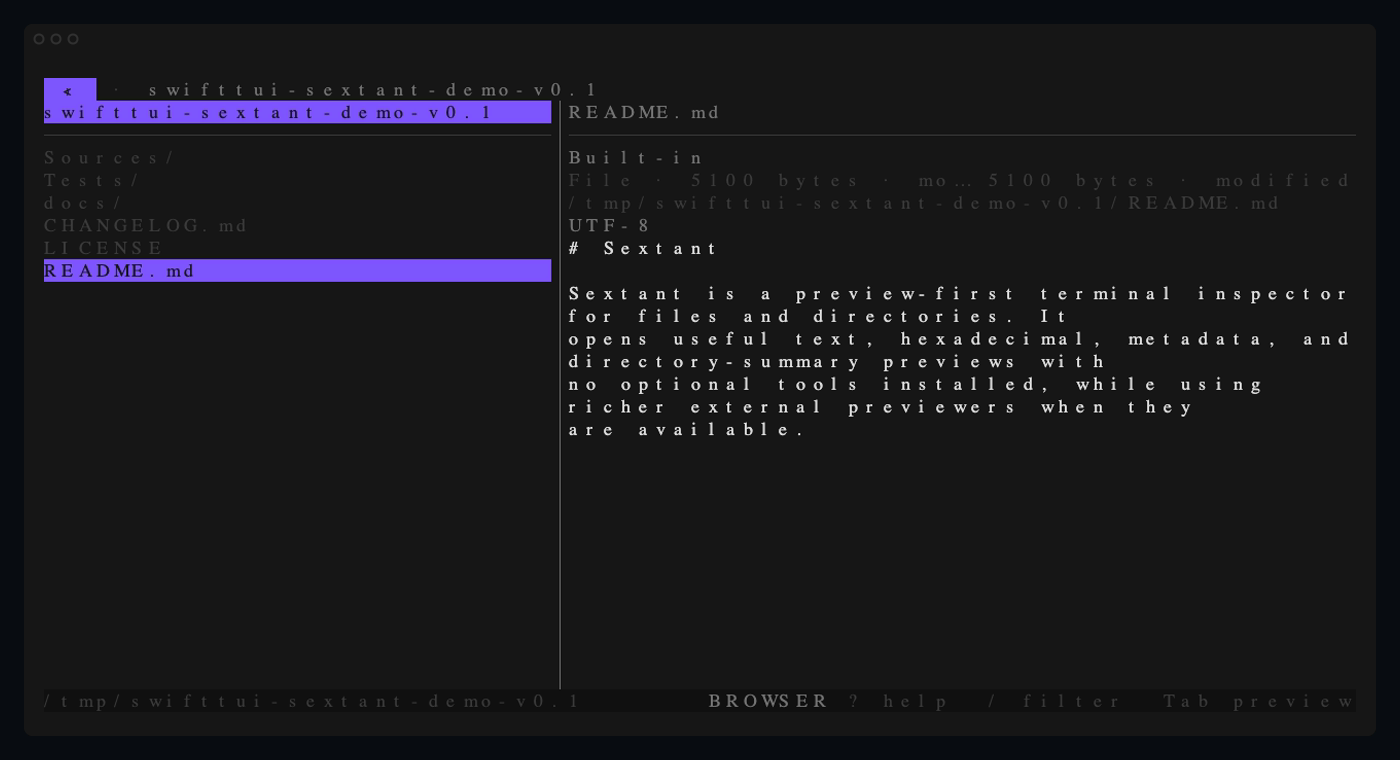
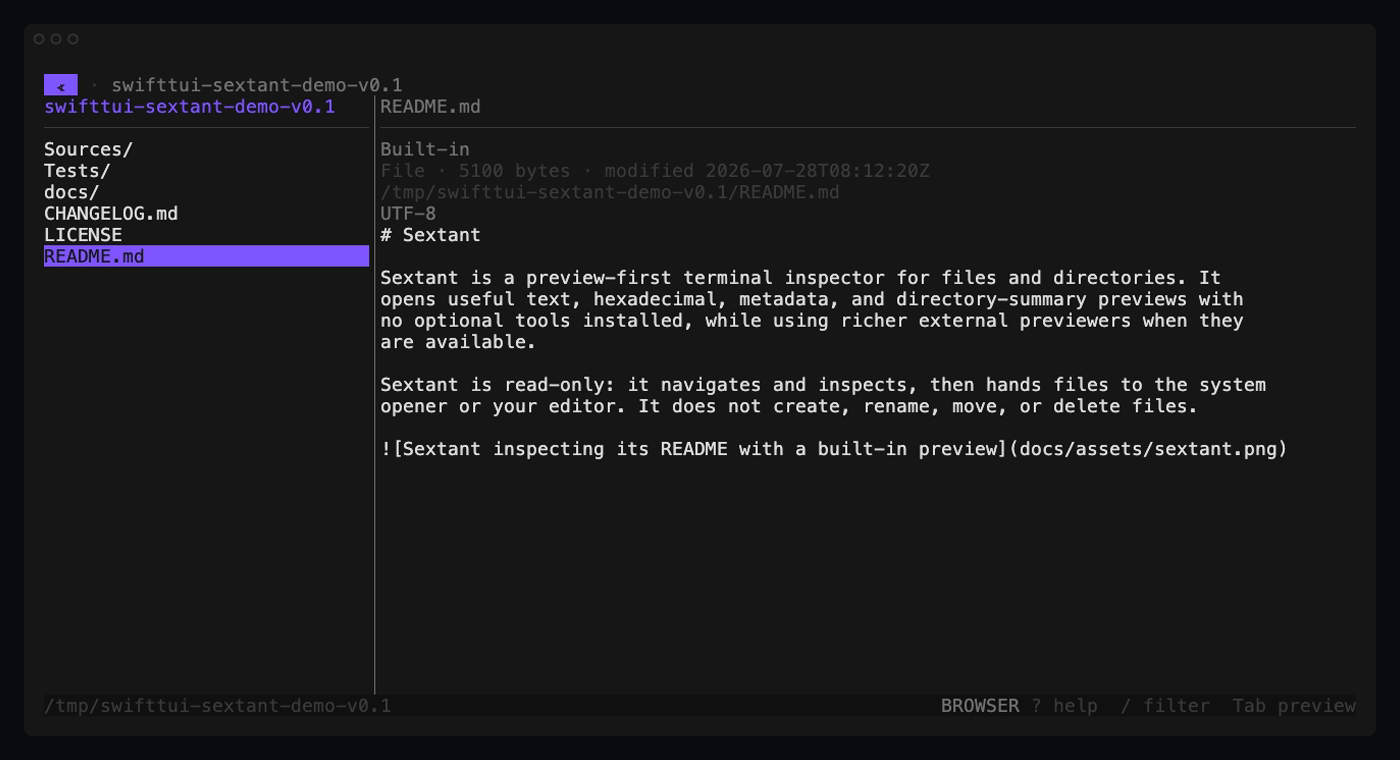
fix(sextant): clip the squeezed browser region; re-record the demo assets
Two defects, both visible in the shipped demo art.

**Column content painted over the status bar.** The help panel is an inline
sibling in the root `VStack`, so opening it squeezes the browser/preview
region to a couple of rows — and the column content, being taller than the
rows it is handed, drew straight over the status bar. In a real terminal that
read as `/tmp/…/demo-v0.1` immediately followed by the tail of the preview's
`File · 5100 bytes · modified …` on the same row. It was previously assumed
to be stale cells surviving a narrowing; it is not. The three fragments are
consecutive preview lines, which is overflow, not leftovers. Forcing
`SWIFTTUI_RASTER_VERIFY_INCREMENTAL=1` reproduces it identically, ruling out
the incremental-damage path. `.clipped()` on the region fixes it, and the new
test is neuter-proofed: without the clip the status row loses `/fixture` and
gains `(loading)`.

**`Set FontFamily "SF Mono"` never resolved.** vhs renders through xterm.js in
headless Chrome, which matches that name against Chrome's font list — and
macOS ships SF Mono inside Terminal.app/Xcode rather than a directory Chrome
enumerates. It does not error; it silently falls back to a proportional serif,
which xterm.js then measures for its cell advance. Every recording before this
one shipped with letter-spaced glyphs ("S e x t a n t") and, because the
fallback yielded so few columns, a help panel that covered the rows where the
overflow above was visible. Switched to Menlo.
[…]

diff --git a/sextant/Tests/SextantTests/ColumnBrowserRenderingTests.swift b/sextant/Tests/SextantTests/ColumnBrowserRenderingTests.swift
@@ -195,4 +195,43 @@ struct ColumnBrowserRenderingTests {
     #expect(rendered.contains("RECENTS"))
     #expect(rendered.contains("/fixture/recent"))
   }
+
+  /// An open overlay squeezes the browser/preview region to a couple of rows,
+  /// and the column content is taller than the rows it is handed. Without a
+  /// clip the surplus lines paint straight over the status bar: the shipped
+  /// 0.3.8 build rendered `/tmp/…/demo-v0.1` immediately followed by the tail
+  /// of the preview's `File · 5100 bytes · modified …` on the status row.
+  ///
+  /// The status bar is the last row, so its right-hand mode word is the probe:
+  /// nothing from the column region may share that row.
+  @Test("an open overlay never lets column content paint over the status bar")
+  func overlaySqueezeDoesNotOverflowStatusBar() {
+    let root = URL(fileURLWithPath: "/fixture")
+    let rootID = DirectoryID(identity: .path(root.path))
+    let model = BrowserModel(
+      root: root,
+      rootID: rootID,
+      policy: DirectoryPolicy(),
+      dependencies: BrowserModelDependencies(
+        loadDirectory: { _ in .failure(.cancelled) }
+      )
+    )
+    model.send(.showHelp)
+
+    // Deliberately short: the help panel alone is taller than this, which is
+    // exactly the squeeze that produced the overflow.
+    let artifacts = DefaultRenderer().render(
+      ColumnBrowser(model: model),
+      context: .init(identity: Identity(components: ["Root"])),
+      proposal: .init(width: 100, height: 12)
+    )
+    let lines = artifacts.rasterSurface.lines
+    let statusRow = try? #require(lines.last)
+
+    // The status row carries the path on the left and the mode on the right.
+    // Any column content that escaped its region lands between them.
+    #expect(statusRow?.contains("/fixture") == true)
+    #expect(statusRow?.contains("Preview") == false)
+    #expect(statusRow?.contains("(loading)") == false)
+  }
 }

diff --git a/sextant/Sources/Sextant/ColumnBrowser.swift b/sextant/Sources/Sextant/ColumnBrowser.swift
@@ -40,6 +40,12 @@ struct ColumnBrowser: View {
       // bar leave behind.
       responsiveSurfaces(width: terminalSize.width)
         .frame(maxWidth: .infinity, maxHeight: .infinity, alignment: .topLeading)
+        // Clip, because an open overlay squeezes this region to a couple of
+        // rows and the column content is taller than what it is handed. Without
+        // this the preview's metadata lines paint straight over the status bar
+        // — visibly, `/tmp/…/demo-v0.1` followed by the tail of
+        // `File · 5100 bytes · modified …` on the same row.
+        .clipped()
       statusBar
     }
     .frame(maxWidth: .infinity, maxHeight: .infinity, alignment: .topLeading)
@@ -703,8 +709,9 @@ struct ColumnBrowser: View {
     // The embedded child sees every key the catalog does not claim. Because
     // the context reports the preview as focused, dispatch already restricts
     // itself to the preview section.
-    guard case .perform(let action)? =
-      commandCatalog.dispatch(keyPress, context: commandContext)
+    guard
+      case .perform(let action)? =
+        commandCatalog.dispatch(keyPress, context: commandContext)
     else {
       return .forwardToChild
     }

diff --git a/sextant/Tests/SextantTests/ConfigurationAndHandoffTests.swift b/sextant/Tests/SextantTests/ConfigurationAndHandoffTests.swift
@@ -200,7 +200,6 @@ struct ConfigurationAndHandoffTests {
     }
   }
 
-
   @MainActor
   @Test("versioned preview content rules map into runtime adapter policy")
   func previewAdapterRules() throws {
